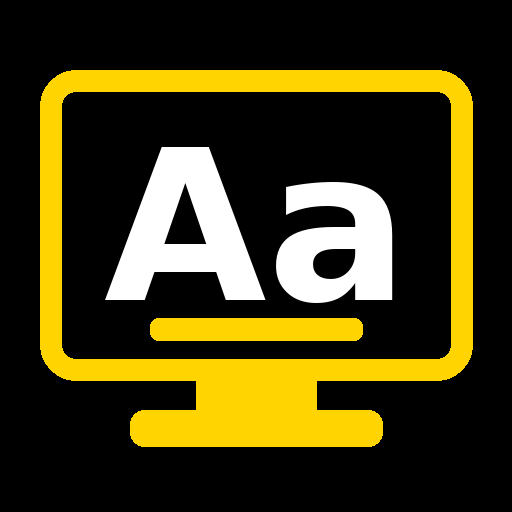
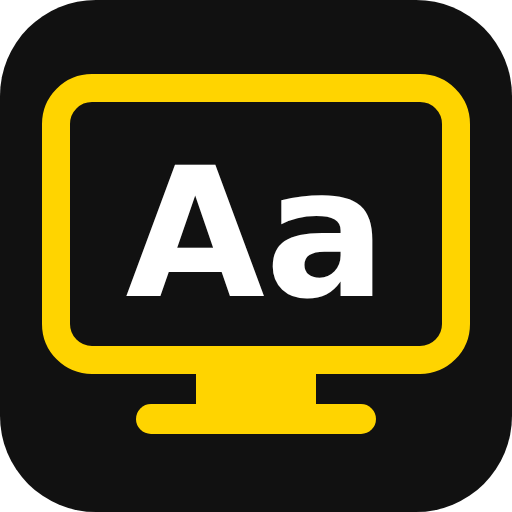
US-first: US English voice, US spelling in the app, US figures in the submission
- speech.py: Polly voice Joanna (US English, neural) instead of Amy.
  Redeploy with `python aws/deploy.py` for the live backend to pick it up.
- App copy: Colors, Keep listening, color controls, "due November 3".
  Internal identifiers and storage keys are unchanged; the snapshot and two
  test strings follow the labels.
- SUBMISSION.md, README, CONTEXT: the United States named as the first
  market, the JAMA/CDC figure of nearly 20 million American adults with AMD
  beside the UK and WHO figures, caregivers and US sight-loss charities in
  the distribution line, "mail" in product copy, and an About line: built
  in Pakistan for every living room with a Fire TV.
- App icon: the redrawn BigPrint mark.

Claude-Session: https://claude.ai/code/session_01WMHMCJ2XLebyjjYeUbujva

diff --git a/src/screens/DocumentView.tsx b/src/screens/DocumentView.tsx
@@ -52,7 +52,7 @@ const LISTEN_LABEL: Record<ListenState, string> = {
   idle: 'Listen',
   preparing: 'Getting the voice…',
   playing: 'Pause',
-  paused: 'Carry on listening',
+  paused: 'Keep listening',
   unavailable: 'No voice',
 };
 
@@ -60,7 +60,7 @@ const LISTEN_SPOKEN: Record<ListenState, string> = {
   idle: 'Listen to the whole letter read aloud.',
   preparing: 'Getting the voice ready. Press to cancel.',
   playing: 'Pause the voice.',
-  paused: 'Carry on listening from where it stopped.',
+  paused: 'Keep listening from where it stopped.',
   unavailable: 'The voice is not available for this letter.',
 };
 
@@ -202,7 +202,7 @@ export const DocumentView = ({
         'Press up and down to move through the text. ' +
         'At the bottom: Listen reads the whole letter aloud, Next photo goes ' +
         'on to the next page, and Settings has what to show, text size and ' +
-        'colours.'
+        'colors.'
       }>
       <View style={layout.baselineRow}>
         <Text
@@ -354,7 +354,7 @@ export const DocumentView = ({
               testID="control-Bigger text"
             />
           </SettingsRow>
-          <SettingsRow label="Colours" colours={colours} dp={dp} type={type}>
+          <SettingsRow label="Colors" colours={colours} dp={dp} type={type}>
             {COLOURS_ORDER.map((name) => (
               <TvButton
                 key={name}
@@ -402,7 +402,7 @@ export const DocumentView = ({
           />
           <TvButton
             label="Settings"
-            accessibilityLabel="Settings: what to show, text size and colours."
+            accessibilityLabel="Settings: what to show, text size and colors."
             onPress={openSettings}
             hasTVPreferredFocus={settingsUsed}
             testID="control-Settings"

diff --git a/test/App.spec.tsx b/test/App.spec.tsx
@@ -173,7 +173,7 @@ describe('App', () => {
     fireEvent.press(screen.getByTestId('colours-light'));
     await settled();
     expect(screen.getByText('Read anything on your TV')).toBeTruthy();
-    expect(screen.getByText('Colours: Light')).toBeTruthy();
+    expect(screen.getByText('Colors: Light')).toBeTruthy();
     await waitFor(async () =>
       expect(await AsyncStorage.getItem('bigprint.colours')).toBe('light'),
     );
@@ -184,21 +184,21 @@ describe('App', () => {
     render(<App service={neverDelivers} />);
     await settled();
     expect(screen.queryByText('Which is easier to read?')).toBeNull();
-    expect(screen.getByText('Colours: Yellow')).toBeTruthy();
+    expect(screen.getByText('Colors: Yellow')).toBeTruthy();
   });
 
   it('the Colours button moves to the next look and remembers it', async () => {
     render(<App service={neverDelivers} />);
     await settled();
-    expect(screen.getByText('Colours: Dark')).toBeTruthy();
+    expect(screen.getByText('Colors: Dark')).toBeTruthy();
     fireEvent.press(screen.getByTestId('colours-button'));
-    expect(screen.getByText('Colours: Light')).toBeTruthy();
+    expect(screen.getByText('Colors: Light')).toBeTruthy();
     await waitFor(async () =>
       expect(await AsyncStorage.getItem('bigprint.colours')).toBe('light'),
     );
     fireEvent.press(screen.getByTestId('colours-button'));
     fireEvent.press(screen.getByTestId('colours-button'));
-    expect(screen.getByText('Colours: Dark')).toBeTruthy();
+    expect(screen.getByText('Colors: Dark')).toBeTruthy();
   });
 
   it('ignores a saved value it does not recognise and asks again', async () => {

diff --git a/src/screens/FirstRunColours.tsx b/src/screens/FirstRunColours.tsx
@@ -38,14 +38,14 @@ export const FirstRunColours = () => {
       accessibilityOrientationText={
         'Choose how BigPrint looks. Press left and right to compare dark, ' +
         'light, and yellow on black, then press select on the one that is ' +
-        'easiest to read. You can change it later with the Colours button.'
+        'easiest to read. You can change it later with the Colors button.'
       }>
       <Text role="heading" style={[layout.bold, {color: page.text}, type(52)]}>
         Which is easier to read?
       </Text>
       <Text style={[{color: page.text, marginTop: dp(8)}, type(30)]}>
         Choose with Left and Right, then press Select. You can change it any
-        time with the Colours button.
+        time with the Colors button.
       </Text>
 
       <TVFocusGuideView
@@ -145,7 +145,7 @@ const Tile = ({
           <Text style={[{color: option.text}, type(44)]}>
             Your electricity bill is{' '}
             <Text style={[layout.bold, {color: option.keyFigure}]}>42.50</Text>,
-            due on 3 November.
+            due November 3.
           </Text>
           <Text style={[layout.bold, {color: option.text}, type(34)]}>
             {option.label}

diff --git a/src/screens/PairingScreen.tsx b/src/screens/PairingScreen.tsx
@@ -133,7 +133,7 @@ export const PairingScreen = ({
         'Pairing screen. Ask someone to point a phone camera at the square ' +
         'on the right of the screen, then take a photo of a letter. ' +
         'It will appear here in large print and can be read aloud. ' +
-        'Text size and colour controls are at the bottom left.'
+        'Text size and color controls are at the bottom left.'
       }>
       <Text role="heading" style={[layout.bold, {color: colours.text}, t(44)]}>
         Read anything on your TV
@@ -291,8 +291,8 @@ export const PairingScreen = ({
           fontPx={30}
         />
         <TvButton
-          label={`Colours: ${colours.shortLabel}`}
-          accessibilityLabel={`Colours, ${colours.label}. Press to change.`}
+          label={`Colors: ${colours.shortLabel}`}
+          accessibilityLabel={`Colors, ${colours.label}. Press to change.`}
           onPress={cycle}
           testID="colours-button"
           fontPx={30}

diff --git a/test/DocumentView.spec.tsx b/test/DocumentView.spec.tsx
@@ -259,7 +259,7 @@ describe('DocumentView listening', () => {
     service.voice({state: 'ready', urls: ['https://x/0']});
     fireEvent.press(screen.getByTestId('control-Listen'));
     expect(player.pause).toHaveBeenCalledTimes(1);
-    expect(screen.getByText('Carry on listening')).toBeTruthy();
+    expect(screen.getByText('Keep listening')).toBeTruthy();
     expect(screen.getByTestId('line-position').props.children).toBe('Paused');
     fireEvent.press(screen.getByTestId('control-Listen'));
     expect(player.resume).toHaveBeenCalledTimes(1);

diff --git a/backend/speech.py b/backend/speech.py
@@ -18,7 +18,7 @@ from concurrent.futures import ThreadPoolExecutor
 import boto3
 from botocore.config import Config
 
-VOICE = "Amy"          # British English, clear and unhurried
+VOICE = "Joanna"       # US English, clear and unhurried
 ENGINE = "neural"
 MAX_CHARS = 2900       # Polly's per-request ceiling is 3,000 billed characters
 # A story is one or two parts; this only bounds a very long page.

diff --git a/SUBMISSION.md b/SUBMISSION.md
@@ -60,12 +60,15 @@ the screen reader follows input focus). Recent letters, held on the TV only,
 so a page left by mistake is two presses back.
 
 **Potential impact.** The audience is large and under-served on the one
-screen they already use. RNIB's 2026 Sight Loss Data Tool puts just over
-600,000 people living with AMD in England alone, rising to 774,000 in a
-decade, and over two million people in the UK living with sight loss. WHO's
+screen they already use. Nearly 20 million American adults have some form of
+age-related macular degeneration, 1.5 million of them late-stage (JAMA
+Ophthalmology 2022, on CDC surveillance data). RNIB's 2026 Sight Loss Data
+Tool puts just over 600,000 people living with AMD in England and over two
+million people in the UK living with sight loss. The US is the largest Fire TV
+market and where Vega OS launched first, so it is the first market. WHO's
 February 2026 fact sheet: at least 2.2 billion people worldwide have a near
-or distance vision impairment, most over 50. Paper post does not stop
-arriving: bills, hospital letters, council letters. A relative or carer with
+or distance vision impairment, most over 50. Paper mail does not stop
+arriving: bills, hospital letters, city letters. A relative or caregiver with
 a phone is the distribution channel, which is also why the phone page has
 one button. Cost per letter is about $0.02–0.03 read on screen, $0.05 with
 the voice, which makes a free tier or a charity-funded service realistic.
@@ -112,7 +115,7 @@ Fire TV hackathon projects, and where they stop:
 **Five lines of differentiation to put in the description and the video,
 in this order:**
 
-1. **It reads your post, on the TV.** Photograph a letter with any phone; it
+1. **It reads your letters, on the TV.** Photograph a letter with any phone; it
    appears in very large print on the screen you already own, two metres
    away, and one press reads it aloud.
 2. **Every number is guarded.** Figures come from Textract, never from the
@@ -141,6 +144,9 @@ accessibility work.
 
 **Tagline:** Photograph a letter with your phone. It appears on your Fire TV
 in very large print, with every number checked, and reads itself aloud.
+
+**About line:** Built in Pakistan for every living room with a Fire TV. First
+market: the United States, where Fire TV and Vega OS live.
 
 **Inspiration**
 
@@ -178,7 +184,7 @@ expense model, has Nova Pro look at the photo independently to confirm the
 money figures, rewrites the page into short spoken sentences and main points
 with Nova Pro, then runs two guards: a currency the page does not print is
 never spoken, and any sentence containing a number that is not on the page
-is dropped. Amazon Polly reads the whole letter as one story, made only when
+is dropped. Amazon Polly (Joanna, US English, neural) reads the whole letter as one story, made only when
 someone presses Listen. The phone page converts HEIC to JPEG and downscales
 in the browser. Audio on the TV uses Vega's W3C media AudioPlayer.
 
@@ -220,8 +226,11 @@ keeping from day one.
 **What's next**
 
 A physical Fire TV run with VoiceView, then distribution through the people
-who reach this audience: adult children, carers, and charities such as RNIB,
-the Macular Society and Age UK. A per-TV allow-list so only a paired phone
+who reach this audience: adult children, caregivers, and sight-loss charities in
+each market, such as the American Foundation for the Blind and Prevent Blindness
+in the US, and RNIB and the Macular Society in the UK. The US comes first,
+because that is where Fire TV and Vega OS are; the app already works in English
+for the UK, Germany, Japan and India. A per-TV allow-list so only a paired phone
 can send, CloudFront with rate limiting in front of the API, and a batch
 mode so a carer can photograph a whole pile of post at once.
 
@@ -244,14 +253,14 @@ visible: it proves the round trip is live.
 
 | Time | On screen | Voice-over |
 |---|---|---|
-| 0:00–0:15 | A real letter on a table, then the TV pairing screen (dark look). | "A few months ago I got solar retinopathy. I couldn't read my phone, and I couldn't read a letter. Millions of people live like that every day. So I built BigPrint TV: the television you already own becomes the reader for your post." |
+| 0:00–0:15 | A real letter on a table, then the TV pairing screen (dark look). | "A few months ago I got solar retinopathy. I couldn't read my phone, and I couldn't read a letter. Millions of people live like that every day. So I built BigPrint TV: the television you already own becomes the reader for your mail." |
 | 0:15–0:30 | Phone scans the QR; one-button page; photo taken. Split screen with the TV turning to "Reading your letter". | "A relative or carer scans the code on the TV with any phone. One button: photograph the letter. The phone is only a camera." |
 | 0:30–0:55 | The letter appears: kind and sender, the key figures pinned, the full letter in large print. D-pad moves line by line. | "About ten seconds later the letter is on the TV in large print. The amount due, the pay-by date and the account number are pinned at the top, and every one of them came from the OCR, never from a language model. A second reader checks the money against the photo." |
 | 0:55–1:15 | Settings: Show → Main points, then Exact words (table rows marked). Text size to 2×; figures stay pinned. | "Three ways to read it: plain English, just the main points, or the exact words as printed. Text goes up to twice the size and the figures never scroll away." |
 | 1:15–1:35 | Press Listen. Button becomes Pause. The voice reads; nothing on screen moves. Pause, carry on. | "Press Listen and the whole letter is read in a natural voice, made only when someone asks for it. Pause and carry on when you like." |
-| 1:35–1:55 | Colours: Dark → Light → Yellow on black. First-run tile screen if you reset. Focus ring on a line. | "Old eyes disagree about what's easiest to read, even with the same condition, so the viewer chooses by reading a real sentence. Every pair passes WCAG at seven to one." |
+| 1:35–1:55 | Colors: Dark → Light → Yellow on black. First-run tile screen if you reset. Focus ring on a line. | "Old eyes disagree about what's easiest to read, even with the same condition, so the viewer chooses by reading a real sentence. Every pair passes WCAG at seven to one." |
 | 1:55–2:15 | A blurry photo: the "Check: some words were hard to read" panel. Then a receipt with a table read as sentences. | "When the page is hard to read, it says so instead of guessing. And a bill's table is read as whole rows, not loose numbers." |
-| 2:15–2:30 | Next photo, second page waiting. Recent letters list. | "Next photo goes on to the next page. Recent letters stay on the TV for a day, then everything is deleted: these are people's private post." |
+| 2:15–2:30 | Next photo, second page waiting. Recent letters list. | "Next photo goes on to the next page. Recent letters stay on the TV for a day, then everything is deleted: these are people's private mail." |
 | 2:30–2:40 | Architecture card: phone → API Gateway → Lambda → S3 → Lambda (Textract, Nova, Polly) → TV. Repo URL. | "Two Lambda functions, S3, Textract, Nova and Polly. About three cents a letter. Open source, MIT." |
 
 Have two photos ready: a clean one-page bill with a table, and a deliberately
@@ -308,7 +317,7 @@ long versions with reproduction steps are the numbered entries in
   references, right often enough on money to be worth a veto. A new account
   was blocked for hours by account verification that presented as a quota
   error with every quota at zero.
-- **Amazon Polly (neural, Amy).** Clear and unhurried for this audience;
+- **Amazon Polly (neural, Joanna, US English).** Clear and unhurried for this audience;
   the 3,000-character limit is handled by splitting between sentences.
 - **AWS Lambda and API Gateway.** A public Function URL configured exactly
   as documented answered 403 to everyone and nothing in the account could

diff --git a/CONTEXT.md b/CONTEXT.md
@@ -62,7 +62,7 @@ Judging criteria: Tech Implementation, Design, Potential Impact, Quality of Idea
 | Colours | Dark (default), Light, Yellow on black; chosen at first run, one Colours button on every screen, persisted (`src/theme/`) |
 | Accessibility | Audited against Amazon's A11Y Compass and fixed; new states have spoken equivalents |
 | Backend | Two Lambdas + S3 behind an API Gateway HTTP API, deployed; see `backend/README.md` |
-| Pipeline | Textract LAYOUT+TABLES (headings kept) → Nova Lite classify → AnalyzeExpense + Nova Pro image cross-check → Nova Pro rewrite with the letter fenced as data → currency guard → whole-figure numeric guard. Polly neural, the whole letter as one story, only when someone presses Listen |
+| Pipeline | Textract LAYOUT+TABLES (headings kept) → Nova Lite classify → AnalyzeExpense + Nova Pro image cross-check → Nova Pro rewrite with the letter fenced as data → currency guard → whole-figure numeric guard. Polly neural (Joanna, US English), the whole letter as one story, only when someone presses Listen |
 | Tests | App: 156 Jest tests (including WCAG contrast for every colour pair), typecheck clean, 0 lint errors. Backend: 37 unit tests |
 | Round trip | `backend/tools/round_trip.sh` pairs, uploads a synthetic bill, polls, asks for the voice and fetches the audio from any machine. 19 Oct: text in 8–12 s with 5 of 5 key facts right, voice in 3–4 s |
 | Abuse limits | 128-bit session secret, JPEG-only 4 MB uploads, 20 per session, 40 sessions and 80 uploads per address per day, a 200 docs/day cap spent only after a real read, 1-day data expiry |
@@ -160,7 +160,7 @@ backend/
   capture_page.html            the phone page
   lambda_process.py            S3-triggered: a photo → text; a voice request → audio
   pipeline.py                  photo → OCR → classify → facts → plain English → guard
-  speech.py                    Polly: the whole letter as one story, in parts if long
+  speech.py                    Polly (Joanna, US English): the whole letter as one story, in parts if long
   tests/                       unit tests (python -m unittest discover backend/tests)
   run_batch.py                 accuracy report over the bucket
   gen_fixtures.py              regenerates src/data/documents.ts

diff --git a/backend/README.md b/backend/README.md
@@ -20,7 +20,7 @@ TV ◀──GET /audio─────── capture Lambda                      
 | `capture_page.html` | The phone page. Downscales and re-encodes the photo as JPEG in the browser (this is also what makes iPhone HEIC work). |
 | `lambda_process.py` | Triggered by S3. For a photo: runs the pipeline and writes the text. For a voice request: reads the letter aloud, once. No public endpoint. |
 | `pipeline.py` | photo → OCR with layout and tables → classify → key facts (cross-checked) → plain English → currency guard → numeric guard |
-| `speech.py` | Polly neural voice: the whole letter as one story, split into parts only past Polly's 3,000-character limit. No word timings. |
+| `speech.py` | Polly neural voice (Joanna, US English): the whole letter as one story, split into parts only past Polly's 3,000-character limit. No word timings. |
 | `tests/` | Unit tests for the pure parts: `python -m unittest discover backend/tests` |
 | `run_batch.py` | Runs the pipeline over every photo in the bucket and prints an accuracy report |
 | `gen_fixtures.py` | Regenerates `src/data/documents.ts` from the saved results in `fixtures/` |

diff --git a/README.md b/README.md
@@ -8,7 +8,8 @@ press reads the whole letter aloud in a natural voice.
 
 Built for people with age-related sight loss, who already own a large screen
 and know how to use a remote. The phone is only a camera, and it is usually
-held by a relative or carer.
+held by a relative or caregiver. Built in Pakistan for every living room
+with a Fire TV; the first market is the United States.
 
 ## Why
 
@@ -17,7 +18,7 @@ messages on my phone, and I could not read the text on a page either. Things
 I had always done without thinking, a text from a friend, a letter on the
 table, were out of reach, and I was worried. Then I thought: this is not only
 my problem. Millions of people live with it every day, most of them older,
-and their post keeps arriving. I decided to solve it, for me and for them.
+and their mail keeps arriving. I decided to solve it, for me and for them.
 
 The answer was already in the room: a large screen that most people own and
 know how to drive with a remote, and a phone in a relative's hand to act as
